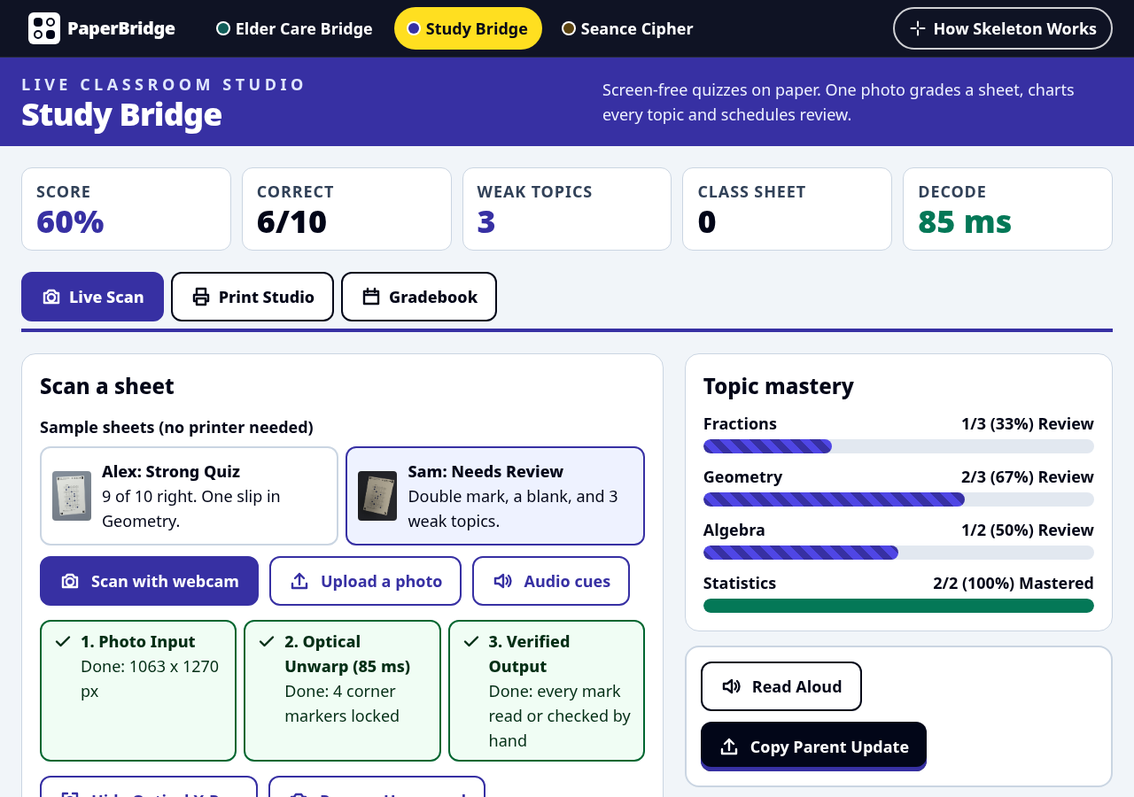
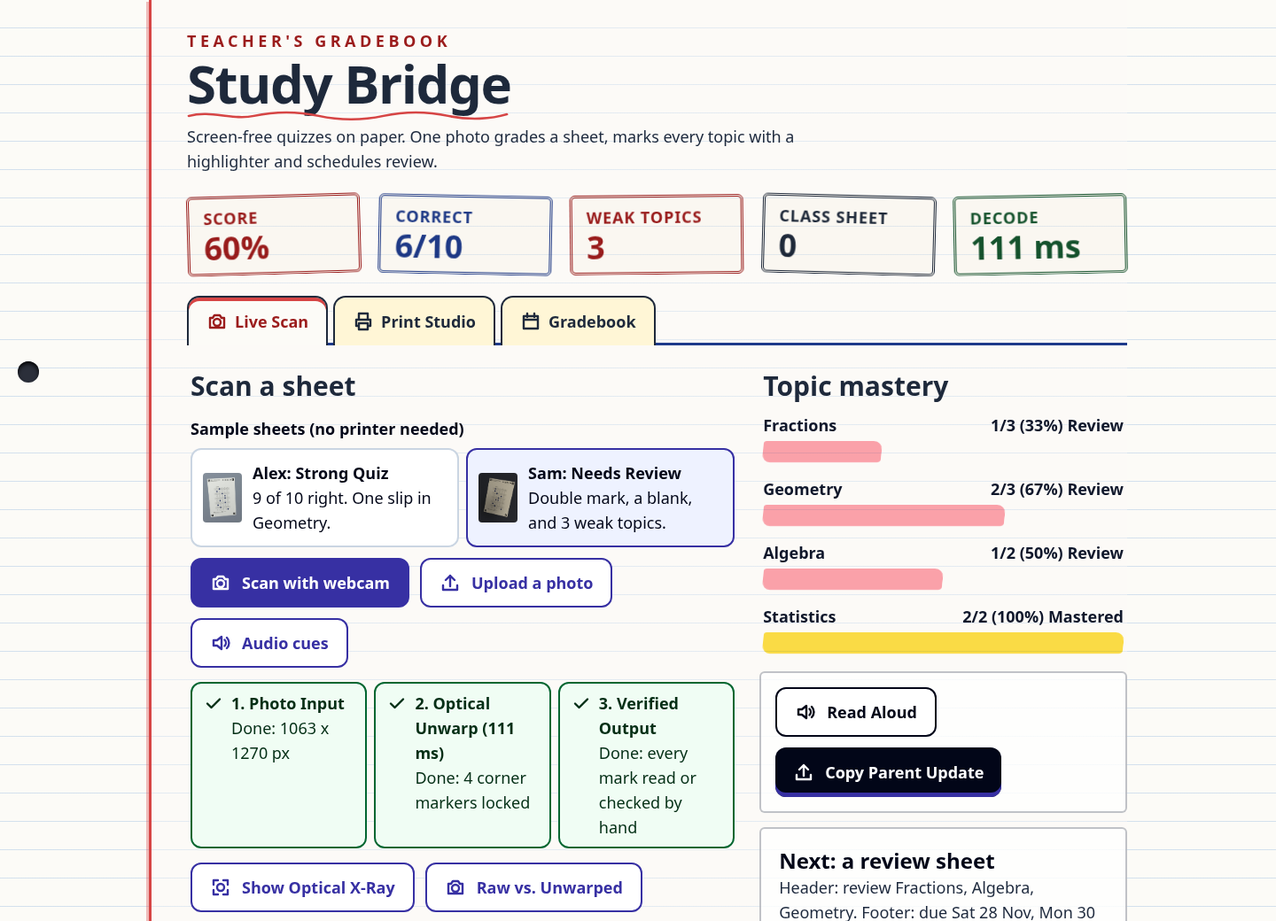
docs: handcrafted objects, retaken screenshots, spec R56-R59, design 23, tasks 25

diff --git a/docs/DETAILS.md b/docs/DETAILS.md
@@ -66,7 +66,7 @@ These live in `src/shell/` and work for Elder Care Bridge, Study Bridge, Seance 
 - **Accents and X-Ray palettes:** `appMeta.accent` colours the launcher pill dot, app badge and primary buttons. The X-Ray takes a palette, with an optional glow (Seance Cipher uses emerald and amber).
 - **Print Cards workspace:** Translate card (English, Telugu, Hindi, Spanish, any script), any-script PDF text, High-Visibility and Icon-Anchored modes, the card download and a multi-sheet pack. An app passes a `print` slot; `createPrintSlot` builds one from a translation table. Elder Care uses it for the 4-Week Monthly Pack, Study Bridge for the 4-Week Unit Quiz Pack and its Telugu, Hindi and Spanish sheets.
 - **Adaptive next card:** an app returns an `adaptiveCard` spec for a scan, and the shell renders it with one component: Elder Care's Print Adapted Next-Week Card and Study Bridge's Print Due Review Card.
-- **Skeleton Home:** the default landing view, a full-viewport midnight blueprint stage with 3 world portal cards (Elder Care Bridge, Study Bridge, Seance Cipher), each drawn in its app's own theme. **Run Mixed-Domain Auto-Route Demo** sends one real card from each app through Scan Any Card and shows each card's X-Ray, its unwarped view and the app it was routed to; **Scaffold Your Next App** opens the architecture dialog with `npm run create-app`.
+- **Skeleton Home (the haunted drafting table):** the default landing view, a `#090C14` desk with a faint pencil grid and a warm lamp glow. Five translucent ghosts drift across it, and a friendly guide ghost with a speech bubble explains each app when you point at it or tab to it. The 3 apps are physical objects at different tilts on desktop: a metal-clipped **clipboard** (Elder Care, -1.5deg), a ruled **composition sheet** with a red margin and a stamped A+ (Study Bridge, 1.2deg) and an obsidian and gold **oracle card** with corner filigree (X-Ray Rite, -1deg). Each is one link (its title, stretched over the object) with a 4 px focus ring. Under `prefers-reduced-motion` the ghosts rest in place, the guide stops floating and nothing tilts on hover. One click on **Run Mixed-Domain Auto-Route Demo** sends a real card from each app through Scan Any Card; **Scaffold Your Next App** opens the architecture dialog.
 - **Saving without storage code:** a generic saved-cards list in `localStorage` with a ready Scan Any Card batch adapter. Scaffolded apps use it by default.
 
 ![Optical X-Ray on the Missed-Dose sample: green boxes on the 4 corners, 22 filled at 0.78-0.81, the faint Wednesday water mark amber at 0.29, 40 blank at 0.00-0.03](images/optical-xray.png)
@@ -74,6 +74,8 @@ These live in `src/shell/` and work for Elder Care Bridge, Study Bridge, Seance 
 ## App details
 
 ### Elder Care Bridge ([`src/apps/elder-care/`](../src/apps/elder-care/))
+
+Drawn as **one caregiver sheet**: a single centred sheet of cream paper (`#FAF8F5`) with a brass paper clip, on a warm linen desk (`#F4EFE6`), with numbered fields down it (1 This week's card, 2 How the week went, 3 Share and save, More ways to scan) instead of a grid of boxes. Text is `#134E4A` on the paper (AAA). The shell's own panels keep their markup; scoped CSS turns their boxes into dotted-outline form fields. Print options, languages and presets, and the history, sit in closed drawers. **HUMAN VERIFIED** is a rubber stamp with a handle: it can only be pressed once every faint mark has been checked on the paper (it says how many remain), then it leaves a dated impression, and **Lift stamp** undoes it. The stamp is a sign-off on screen; it changes no reading.
 
 A large-print **Weekly Care Card**. For each day from Monday to Sunday it has Morning Meds,
 Night Meds, Water 6+ cups, Dizzy or Pain, and Energy 1-5. The person fills it in on paper.
@@ -109,6 +111,8 @@ Caregiver workflow:
 ![The decoder's view of the tilted, low-light sample](images/decoder-overlay.png)
 
 ### Study Bridge ([`src/apps/study-bridge/`](../src/apps/study-bridge/))
+
+Drawn as **a teacher's ruled-paper gradebook** (`#FCFBF7`): faint blue rules, a classic red margin line and binder holes. The score telemetry is a row of tilted rubber-stamp marks in red, blue and green ink (every ink is at least 7:1 on the paper), the topic-mastery bars are highlighter strokes (yellow for mastered, pink for review, with the words and numbers beside them), and Live Scan, Print Studio and Gradebook are notebook divider tabs. Handwriting-style headings use `Segoe Print`, `Bradley Hand` or `Comic Sans MS` where the system has one.
 
 A **zero-distraction quiz answer sheet** with 10 questions and options A-E, for practice
 without a screen. One photo gives:
@@ -149,7 +153,9 @@ Web Audio chords (no audio files): a major triad that climbs a semitone per comb
 
 Real numbers from the simulated camera on the printed sheet: nothing on a circle reads 0.00; a dark token 0.94; a dark fingertip 0.78; a dark fingertip over 60% of the circle 0.53; a mid skin tone 0.45; a pale skin tone 0.30; a dark fingertip half off the circle 0.38. So the 0.48 line is met by a dark token or a pressed dark fingertip, while a pale fingertip in bright light lands in the Trembling Hand range. Real webcams are not verified.
 
-The original 3-question **Oracle Cipher** card is kept in a collapsed section: the same 12 circles and card ID, story verdicts, the faint-mark human check, and the landing place for a card routed here from Skeleton Home. The obsidian `#0B0D12` and brass `#D4AF37` theme passes WCAG 2.2 AA.
+**The stage fits one screen.** The game section is sized from the viewport (minus the launcher bar and the title row) so the toolbar, HUD with its **countdown ring**, the launchpad or live video and the status line never need scrolling at 1440x900, 1280x720 or 1024x768. The rules sit in a card over the pads until you start. On a phone the page scrolls normally with a taller stage. While a hand trembles the status line gets a ghostly joke (`riteVoice.ts`: "The ghosts are tickling your fingers. Cover the Spider all the way!") and the HUD states the rule. Printing the 12-Rune Sheet, the classic Oracle reading and Scan Any Card live in one compact drawer under the game.
+
+The original 3-question **Oracle Cipher** card is kept in that drawer: the same 12 circles and card ID, story verdicts, the faint-mark human check, and the landing place for a card routed here from Skeleton Home. The obsidian `#0B0D12` and brass `#D4AF37` theme passes WCAG 2.2 AA.
 
 ### Kiro Crew App (`crew-app/`)
 
@@ -257,6 +263,10 @@ them. They found these bugs before any human saw a wrong answer:
 | Screenshot of a lit Moon pad | The crescent's cut-out was painted in the pad colour and showed as a dark disc over the gold beam | Draw each rune through an SVG mask, so cut-outs are real holes |
 | Keyboard audit on the print panel | The page's yellow focus ring vanished on parchment | Parchment panels set a dark ring for their controls |
 | Unit test of the Trembling Hand | A 0.3 reading put on a rune that happened to be a target slowed the timer, so "time ran out" never fired | Test readings go on a rune that is not lit (the engine is right: a tremble slows the timer) |
+| Fit check of the X-Ray Rite stage at 1024 px wide | The shell's launcher bar wraps to 2 lines there (121 px, not 65 px), so a hard-coded offset pushed the drawer bar off the screen | The page measures where it starts and hands that to the CSS (`--launcher`); it now fits 1440x900, 1280x720 and 1024x768 |
+| Look at the Skeleton Home clipboard | The weekly grid's 4th row was cut off by the drawing's own box | A taller viewBox |
+| axe-core and contrast tests on the Elder Care stamp | Dimming a pressed or locked stamp with `opacity` dropped its white text below AAA | A solid muted colour (`#365553`, 8.1:1) instead of opacity |
+| Contrast test on Study Bridge's green ink | `#166534` on the paper was 6.9:1, just under the 7:1 claimed | `#14532D` (10.1:1) |
 | Seance sample x 7 cameras x 2 papers | An A4 smudged Seance card read with the Letter layout showed 0 unclear marks (misplaced samples landed on blank paper), so "fewest unclear" picked the wrong paper | Score how dark each bubble's printed ring is through the homography and prefer the paper whose rings line up; on 98 photos the printed paper always wins, by at least 0.835 |
 
 The tests also caught a mistake in our own expectations: we expected Sam's quiz to score
@@ -326,11 +336,11 @@ regenerates the sample photos, and saving any app file typechecks it.
 
 ```
 src/core/              optical skeleton: layout, validate (geometry + printed text), render (SVG/PDF, multi-page, vector icons, highlights), decode, capture, testing/synth
-src/shell/             shared UI: launcher bar, optical primitives + useOpticalScan, ScanWorkbench with 3 tabs, Optical X-Ray, audio cues, Read Aloud / Copy Quick Update, generic saved cards, app registry, Scan Any Card routing + batch, stress lab, any-script text images, overrides, storage, offline badge
-src/apps/elder-care/   layout, interpret, card settings (anchors, cues, High-Visibility, icons), i18n packs, adaptive card, presets, monthly pack,
+src/shell/             shared UI: Skeleton Home (HomeGhosts, HomeArtifacts), launcher bar, optical primitives + useOpticalScan, ScanWorkbench with 3 tabs, Optical X-Ray, audio cues, Read Aloud / Copy Quick Update, generic saved cards, app registry, Scan Any Card routing + batch, stress lab, any-script text images, overrides, storage, offline badge
+src/apps/elder-care/   CareSheet (linen, paper, numbered fields), SignOffStamp, layout, interpret, card settings (anchors, cues, High-Visibility, icons), i18n packs, adaptive card, presets, monthly pack,
                        patterns, history, sample history, Doctor Visit PDF, batch adapter, CareDashboard
-src/apps/study-bridge/ layout, answer key, grade, class sheet + CSV, due review sheet, batch adapter, StudyResults, Studio (telemetry, topic mastery)
-src/apps/seance-cipher/ layout (3 chapters + the 12-Rune Sheet), oracle (story verdicts), riteEngine (pure game), riteCamera, riteSheet + runeGlyphs, RiteGame/RitePads/RiteLive/RiteReceipt, riteAudio, theme, samples
+src/apps/study-bridge/ layout, answer key, grade, class sheet + CSV, due review sheet, batch adapter, StudyResults, Studio (gradebook paper, ink-stamp telemetry, highlighter bars)
+src/apps/seance-cipher/ layout (3 chapters + the 12-Rune Sheet), oracle (story verdicts), riteEngine (pure game), riteVoice (ghostly messages), riteCamera, riteSheet + runeGlyphs, RiteGame/RitePads/RiteLive/RiteReceipt, riteAudio, theme, samples
 src/__tests__/         integration tests: shipped app layouts against the core Layout Validator
 scripts/               gen-samples.ts, create-app.mjs, gen-icons.ts, hooks/ (Kiro hook scripts)
 mcp/                   Layout Validator MCP server (validate_card_layout, list_registered_apps)
@@ -345,7 +355,7 @@ docs/                  BUILD-YOUR-OWN-APP.md, screenshots
 | Command | What it does |
 |---|---|
 | `npm run dev` | Start the app |
-| `npm test` | 444 tests: property tests, end-to-end sample decodes, interpreters, overrides, history, CSV, layout validator, scaffolder, MCP tools, auto-routing and batch scan, 50-photo paper-size matrix, monthly pack, presets, adaptive cards, language packs and icons, stress lab, tabs, hooks, Optical X-Ray, audio and speech controls, generic batch save, Instant Demo scenarios, decode pipeline, Raw vs. Unwarped, accents and the architecture dialog, shared print and packs in every app, Skeleton Home and the launcher, Seance Cipher layout and verdicts, the X-Ray Rite engine, sheet, camera loop, audio and page, auto-route across 3 apps, frontend keyboard markup, Crew App contract, cardLanguage and bundle |
+| `npm test` | 479 tests: property tests, end-to-end sample decodes, interpreters, overrides, history, CSV, layout validator, scaffolder, MCP tools, auto-routing and batch scan, 50-photo paper-size matrix, monthly pack, presets, adaptive cards, language packs and icons, stress lab, tabs, hooks, Optical X-Ray, audio and speech controls, generic batch save, Instant Demo scenarios, decode pipeline, Raw vs. Unwarped, accents and the architecture dialog, shared print and packs in every app, Skeleton Home and the launcher, Seance Cipher layout and verdicts, the X-Ray Rite engine, sheet, camera loop, audio, ghostly messages and one-screen page, the haunted Skeleton Home, the caregiver sheet and its stamp, the gradebook, auto-route across 3 apps, frontend keyboard markup, Crew App contract, cardLanguage and bundle |
 | `npm run typecheck` | `tsc --noEmit` |
 | `npm run build` | Production build plus service worker and `manifest.webmanifest` (pdf-lib loads only when printing) |
 | `npm run gen:samples` | Regenerate every app's sample photos (deterministic, byte-identical) |

diff --git a/README.md b/README.md
@@ -16,26 +16,28 @@ apps plus a Kiro Crew App. Built for **Kiroween 2026: Skeleton Crew**.
 | **Blog post** | [Building PaperBridge: An Offline-First Optical UI Skeleton for Elder Care with Kiro](https://dev.to/meena_n/building-paperbridge-an-offline-first-optical-ui-skeleton-for-elder-care-with-kiro-1h76) (DEV) |
 | **Social post** | [PaperBridge on X](https://x.com/MNoolu34434/status/2124436517087248756) |
 
+![Skeleton Home, the haunted drafting table: a friendly ghost guide above 3 tilted paper objects, a metal-clipped clipboard for Elder Care, a ruled school sheet with a red A+ for Study Bridge and an obsidian and gold oracle card for X-Ray Rite](docs/images/skeleton-home.png)
+
 ## One skeleton, three frontends
 
-A slim launcher bar (the PaperBridge mark, one pill per app, **How Skeleton Works**) opens each app full screen.
+A slim launcher bar (the PaperBridge mark, one pill per app, **How Skeleton Works**) opens each app full screen. Each app is a different physical object: a clipped clipboard, a ruled gradebook, an oracle card.
 All three are built from the same `src/core/` engine and the same `src/shell/` primitives, and each looks nothing like the others.
 
 <table>
   <tr>
-    <th width="33%"><a href="src/apps/elder-care/">Elder Care Bridge</a><br>Warm Clinical Stationery</th>
-    <th width="33%"><a href="src/apps/study-bridge/">Study Bridge</a><br>Live Classroom Studio</th>
-    <th width="33%"><a href="src/apps/seance-cipher/">Seance Cipher</a><br>X-Ray Rite, obsidian arcade</th>
+    <th width="33%"><a href="src/apps/elder-care/">Elder Care Bridge</a><br>One caregiver sheet on linen</th>
+    <th width="33%"><a href="src/apps/study-bridge/">Study Bridge</a><br>The teacher's gradebook</th>
+    <th width="33%"><a href="src/apps/seance-cipher/">Seance Cipher</a><br>X-Ray Rite, one-screen arcade</th>
   </tr>
   <tr>
-    <td><img src="docs/images/frontend-elder.png" alt="Elder Care Bridge: ivory page with teal hairlines, the card with its Optical X-Ray on the left, adherence status and a Human verified stamp on the right"></td>
-    <td><img src="docs/images/frontend-study.png" alt="Study Bridge: indigo banner, bold telemetry for score and decode time, horizontal topic-mastery bars"></td>
-    <td><img src="docs/images/frontend-seance.png" alt="X-Ray Rite: the 12-rune launchpad with one rune lit in gold, a wave timer, 3 lives, score and combo"></td>
+    <td><img src="docs/images/frontend-elder.png" alt="Elder Care Bridge: a single cream caregiver sheet on a linen desk with a brass paper clip, a large 71 percent result, a checked faint mark and a pressed HUMAN VERIFIED rubber stamp with its dated impression"></td>
+    <td><img src="docs/images/frontend-study.png" alt="Study Bridge: ruled gradebook paper with a red margin line, red-ink score stamps, notebook tabs and pink and yellow highlighter topic bars"></td>
+    <td><img src="docs/images/frontend-seance.png" alt="X-Ray Rite: the whole game on one screen, a 3 by 4 rune launchpad with the Spider rune trembling in dashed crimson, a countdown ring, 3 lives and a ghostly status line"></td>
   </tr>
   <tr>
-    <td>Ivory and teal, AAA contrast. Two columns: card, X-Ray and Raw vs. Unwarped on the left; adherence, a 1-click <b>Human Verified</b> stamp, Read Aloud, WhatsApp update, Doctor Visit PDF and icon cards in 4 languages on the right. Presets sit in an accordion.</td>
-    <td>Slate, indigo and emerald with <code>tabular-nums</code> telemetry. Live Scan, Print Studio and Gradebook tabs: topic-mastery bars, a batch gradebook, the Due Review Card and a multi-week quiz pack in Telugu and Hindi.</td>
-    <td><b>X-Ray Rite: The Endless Obsidian Seance.</b> An endless survival arcade on a printed 12-rune sheet. Runes light up in waves; cover one with a finger or token before the timer ends. A shaky half cover is a Trembling Hand. No printer? Play on the digital launchpad.</td>
+    <td>One centred sheet of cream paper on linen, AAA contrast, with numbered fields instead of dashboard boxes. A big <b>HUMAN VERIFIED</b> rubber stamp that only works once every faint mark is checked. Print options and presets sit in a closed drawer.</td>
+    <td>Ruled paper with a red margin line. Scores are red-ink rubber stamps, topics are marked with a highlighter, and Live Scan, Print Studio and Gradebook are notebook tabs. Due Review Card and multi-week quiz packs in Telugu and Hindi.</td>
+    <td><b>X-Ray Rite: The Endless Obsidian Seance.</b> An endless arcade on a printed 12-rune sheet that fills one screen. Cover each lit rune before the countdown ring ends. A shaky half cover is a Trembling Hand, and the ghosts tease you about it. No printer? Use the digital launchpad.</td>
   </tr>
 </table>
 
@@ -56,7 +58,7 @@ Seance Cipher is now an endless survival game on the same optical engine. Print 
 
 ### Try it in 60 seconds (no printer needed)
 
-1. Open the [live demo](https://paperbridge-acvw.onrender.com/). On **Skeleton Home**, click **Run Mixed-Domain Auto-Route Demo**: one real card from each app is unwarped, X-Rayed and routed to its own app.
+1. Open the [live demo](https://paperbridge-acvw.onrender.com/). On **Skeleton Home**, point at (or tab to) each paper and the ghost guide explains it. Then click **Run Mixed-Domain Auto-Route Demo**: one real card from each app is unwarped, X-Rayed and routed to its own app.
 2. Click **Seance Cipher**, then **Start the Rite**. Hold a lit rune's pad (or its key) to banish it, or tap it to feel the Trembling Hand. Let the timer run out three times for the Game Over receipt with its frozen X-Ray.
 3. Open **Elder Care Bridge**, load a sample and stamp the amber mark **Human Verified**, then print the adapted next-week card.
 4. Open **Study Bridge**, scan a quiz, then **Print Studio** for the Telugu or Hindi sheet and the quiz pack.
@@ -67,7 +69,7 @@ Seance Cipher is now an endless survival game on the same optical engine. Print 
 
 | Kiro feature | Where | What it does here |
 |---|---|---|
-| **Spec-driven development** | [`.kiro/specs/paperbridge/`](.kiro/specs/paperbridge/) | EARS [requirements](.kiro/specs/paperbridge/requirements.md) R1-R55, [design](.kiro/specs/paperbridge/design.md) decisions with measured numbers, and [tasks](.kiro/specs/paperbridge/tasks.md) 1-24, one task group per commit |
+| **Spec-driven development** | [`.kiro/specs/paperbridge/`](.kiro/specs/paperbridge/) | EARS [requirements](.kiro/specs/paperbridge/requirements.md) R1-R59, [design](.kiro/specs/paperbridge/design.md) decisions with measured numbers, and [tasks](.kiro/specs/paperbridge/tasks.md) 1-25, one task group per commit |
 | **Steering** | [`.kiro/steering/`](.kiro/steering/) | Always-on product rules, a `src/core/**` rule for the deterministic decoder, a `src/apps/**` rule for accessible thin apps |
 | **Agent hooks** | [`.kiro/hooks/`](.kiro/hooks/) | 5 hooks of 3 kinds: tests, sample regeneration and typecheck on save; a `PreToolUse` guard on the protected decoder; a `Stop` check for core boundaries and WCAG |
 | **MCP server** | [`mcp/`](mcp/) | Layout Validator: `validate_card_layout` and `list_registered_apps`, so Kiro checks a card before anyone prints it |

diff --git a/.kiro/specs/paperbridge/requirements.md b/.kiro/specs/paperbridge/requirements.md
@@ -305,3 +305,18 @@ PaperBridge turns a printed bubble card into structured data using deterministic
 ## R55. Accessibility and protected code (Phase 11)
 1. Text SHALL meet WCAG 2.2 AA contrast, every control SHALL show the 4 px focus ring, every button's accessible name SHALL contain its visible words, flicker SHALL stay under 3 flashes a second and every animation SHALL stop for reduced motion. State SHALL never rely on colour alone, and the game SHALL be pausable and announce events in a polite status line.
 2. THE change SHALL leave `src/core/`, `src/shell/`, `src/apps/elder-care/` and `src/apps/study-bridge/` unchanged, keep `pdf-lib` out of the initial bundle, and use no em dashes in UI copy or markdown.
+
+## R56. Skeleton Home: the haunted drafting table (Phase 12)
+1. Skeleton Home SHALL be a dark (#090C14) drafting-desk canvas with translucent ghosts drifting across it and a friendly guide ghost whose speech bubble changes to playful, helpful copy for each app while it is hovered or focused (and for the scaffold button). Ghost motion, the guide's float and the hover tilt SHALL stop under `prefers-reduced-motion: reduce`; the ghosts SHALL then rest in fixed places.
+2. THE 3 apps SHALL be physical, differently tilted objects, not equal cards: a metal-clipped clipboard on cream paper (#FAF6EE) with a teal stamp (-1.5deg), a ruled composition sheet with a red margin line, blue rules and a red A+ stamp (1.2deg), and an obsidian and antique-gold oracle card with corner filigree and an emerald glow (-1deg). The tilt SHALL apply on desktop widths only. Each object SHALL stay one link (`#elder-care`, `#study-bridge`, `#seance-cipher`) with a 4 px focus ring, and the existing demo and scaffold buttons and labels SHALL be unchanged.
+
+## R57. Elder Care: one caregiver sheet (Phase 12)
+1. Elder Care SHALL be a single centred sheet of paper on a warm linen (#F4EFE6) surface with numbered fields and generous whitespace, text at AAA contrast (#134E4A on #FAF8F5), and no multi-column dashboard grid. Secondary print options, languages and presets SHALL be collapsed.
+2. THE page SHALL have a **HUMAN VERIFIED** rubber stamp that cannot be pressed while any faint mark is unchecked (and says how many remain), leaves a dated impression when pressed, can be lifted, and is operable by keyboard.
+
+## R58. Study Bridge: the teacher's gradebook (Phase 12)
+1. Study Bridge SHALL be ruled paper (#FCFBF7) with a red margin line, red, blue and green ink score stamps (each at least 7:1 on the paper) keeping the "Score telemetry" list, notebook divider tabs for Live Scan, Print Studio and Gradebook, and highlighter-style topic bars (yellow mastered, pink review) that are decoration beside the numbers and words.
+
+## R59. X-Ray Rite fits one screen (Phase 12)
+1. THE active game stage (live webcam or the 3 x 4 launchpad, the HUD and a countdown ring) SHALL fill the viewport below the launcher bar without scrolling at 1440x900, 1280x720 and 1024x768, however tall the launcher bar is. WHEN a hand trembles THE status line SHALL show a ghostly message that tells the player to cover the rune fully. Printing the 12-Rune Sheet and the classic Oracle reading SHALL be in one collapsed drawer.
+2. THE change SHALL leave `src/core/`, `src/shell/route.ts`, `src/shell/useOpticalScan.ts`, `src/shell/optical.tsx`, `src/shell/app-registry.ts` and `src/apps/seance-cipher/riteEngine.ts` unchanged, keep WCAG 2.2 AA contrast and 4 px focus rings, and use no em dashes.

diff --git a/.kiro/specs/paperbridge/design.md b/.kiro/specs/paperbridge/design.md
@@ -224,3 +224,10 @@ Verified against the Crew docs and the KiroCrew sources (`website/src/app-sdk/in
 - **Game clock.** One `requestAnimationFrame` chain ticks the engine about 30 times a second, with a 100 ms cap per step, and is cancelled on pause, on phase change and on unmount. The launchpad hold rule (250 ms, then 1.0; a shorter press leaves a 0.35 pulse) is in the pure `padPress`/`padRelease`/`padCoverage`.
 - **Look.** Animations live in a scoped `<style>` (global CSS is off limits): the pulse is on a separate glow ring so a button's text never fades, the flicker has 2 dips per 1.2 s, and reduced motion disables all of it. Rune pictures are drawn through an SVG mask so cut-outs are real holes.
 - **Kept, not replaced.** The Oracle reading stays in a collapsed section because Skeleton Home's "Open in Seance Cipher" hands a scan to `useOpticalScan` there, and the shell tests assert that panel.
+
+## 23. Phase 12: handcrafted objects
+- **Physical objects, not cards.** Each app on Skeleton Home is one object with its own proportions: the grid is `1.12fr 1fr 0.94fr` with different top offsets, and each has its own tilt in a CSS variable that only applies from 1024 px up. The stretched title link and the `has-[a:focus-visible]` ring on the object are kept from Phase 11, so the whole object is one focus target with a 4 px ring. The hover and focus straighten-and-lift rule and every ghost animation are `transform` only, and reduced motion removes them.
+- **Ghosts.** A ghost is an SVG body; each drifter is a wrapper that translates across the desk (so the browser animates it on the compositor) with the bob on the inner SVG. A negative `animation-delay` starts each one mid-flight. Under reduced motion each wrapper gets `transform: translateX(var(--rest))`. The guide is decorative; the artifact's own description stays attached with `aria-describedby`, so nothing depends on the bubble.
+- **Elder Care.** The shell's panels are not edited. `.care-sheet` CSS flattens any `section`, `details` or large rounded `div` inside the sheet into a dotted outline, so the shared components look like form fields. The stamp gates on `pending = unclear marks - checked`, the same number the decode pipeline uses. A locked or stamped stamp uses a solid colour, never opacity, so its text stays AAA.
+- **Study Bridge.** Ink colours are all at least 7:1 on #FCFBF7. Highlighter bars are `mix-blend-multiply` skewed blocks; the numbers and the words Review and Mastered carry the meaning. The workspace tabs keep their roving tabindex and arrow keys; only their CSS changes.
+- **X-Ray Rite.** The game section height is `100svh - launcher - header - drawer bar` with a minimum, and the stage inside it is `flex-1`, so the pads and the 16:9 video take what is left. The launcher bar wraps to 2 lines on narrow windows, so the page measures its own top offset and sets `--launcher`. `riteEngine.ts` is untouched: the ghostly lines are `riteVoice.ts`, which wraps `announceEvents` only for a tremble, picks a line from `(rune + wave)` so a replay reads the same, and leaves every other sentence exactly as the engine wrote it.

diff --git a/.kiro/specs/paperbridge/tasks.md b/.kiro/specs/paperbridge/tasks.md
@@ -162,3 +162,11 @@ Requirement references use the numbering in `requirements.md`.
   - [x] 24.4 Tests: engine, sheet and camera readings, page markup and handlers, audio, the camera loop in Node _(R51-R55)_
   - [x] 24.5 Browser checks: both modes to Game Over, keyboard, axe-core 0 AA on 6 states, 4 px rings, reduced motion, 390 px width, camera released on leave _(R55)_
   - [x] 24.6 README showcase, DETAILS, developer guide _(R55.2)_
+
+- [x] 25. Phase 12: handcrafted physical-object UI (branch `style/handcrafted-ghost-ui`)
+  - [x] 25.1 `HomeGhosts.tsx` (drifting ghosts, guide, hints, reduced motion) and `HomeArtifacts.tsx` (clipboard, composition sheet, oracle card); `SkeletonHome.tsx` _(R56)_
+  - [x] 25.2 Elder Care `CareSheet.tsx`, `SignOffStamp.tsx`, `App.tsx` as one sheet _(R57)_
+  - [x] 25.3 Study Bridge `Studio.tsx` gradebook paper, ink stamps, highlighter bars; `App.tsx` _(R58)_
+  - [x] 25.4 X-Ray Rite one-screen stage, countdown ring, drawer, `riteVoice.ts` _(R59)_
+  - [x] 25.5 Tests: Skeleton Home, caregiver sheet and stamp, gradebook, ghost voice, one-screen layout; browser audit (axe-core, keyboard, reduced motion, fit at 3 sizes, 390 px) _(R56-R59)_
+  - [x] 25.6 Retaken screenshots, README, DETAILS _(R55.2)_
